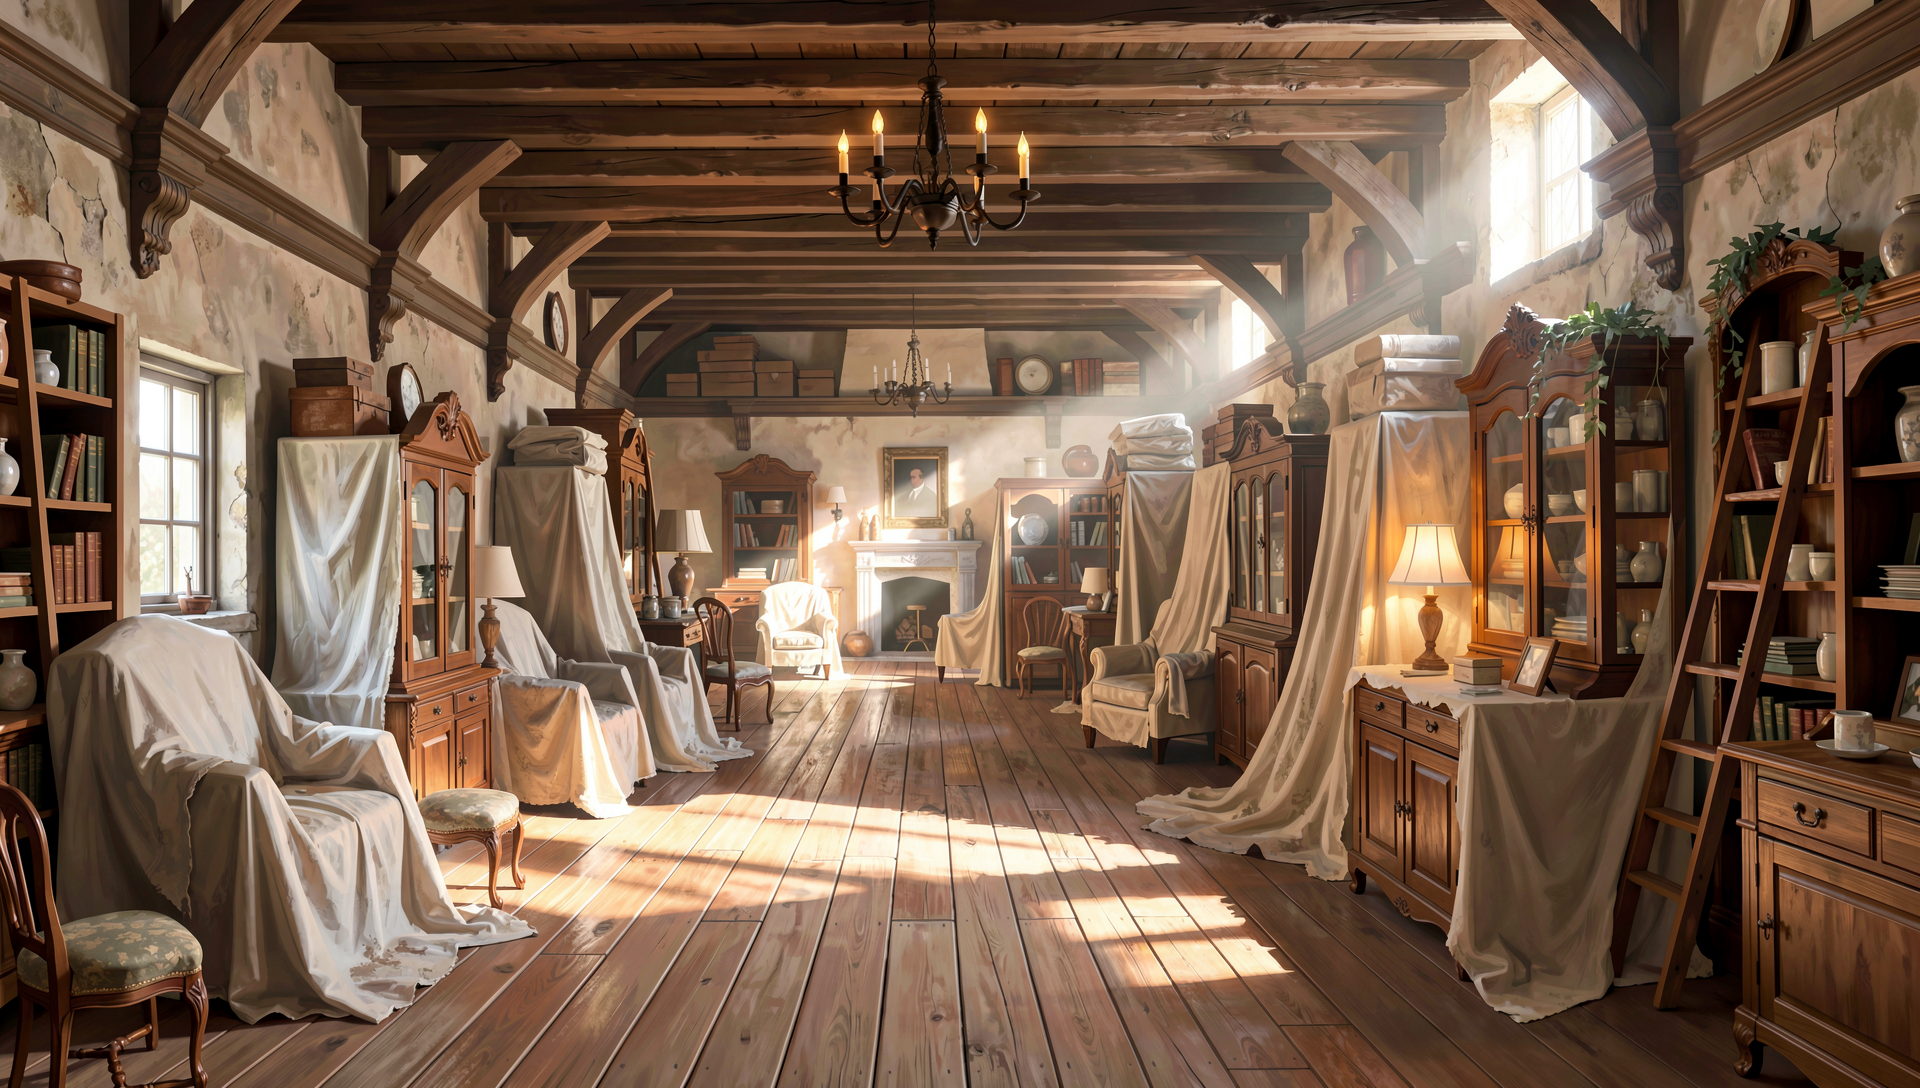
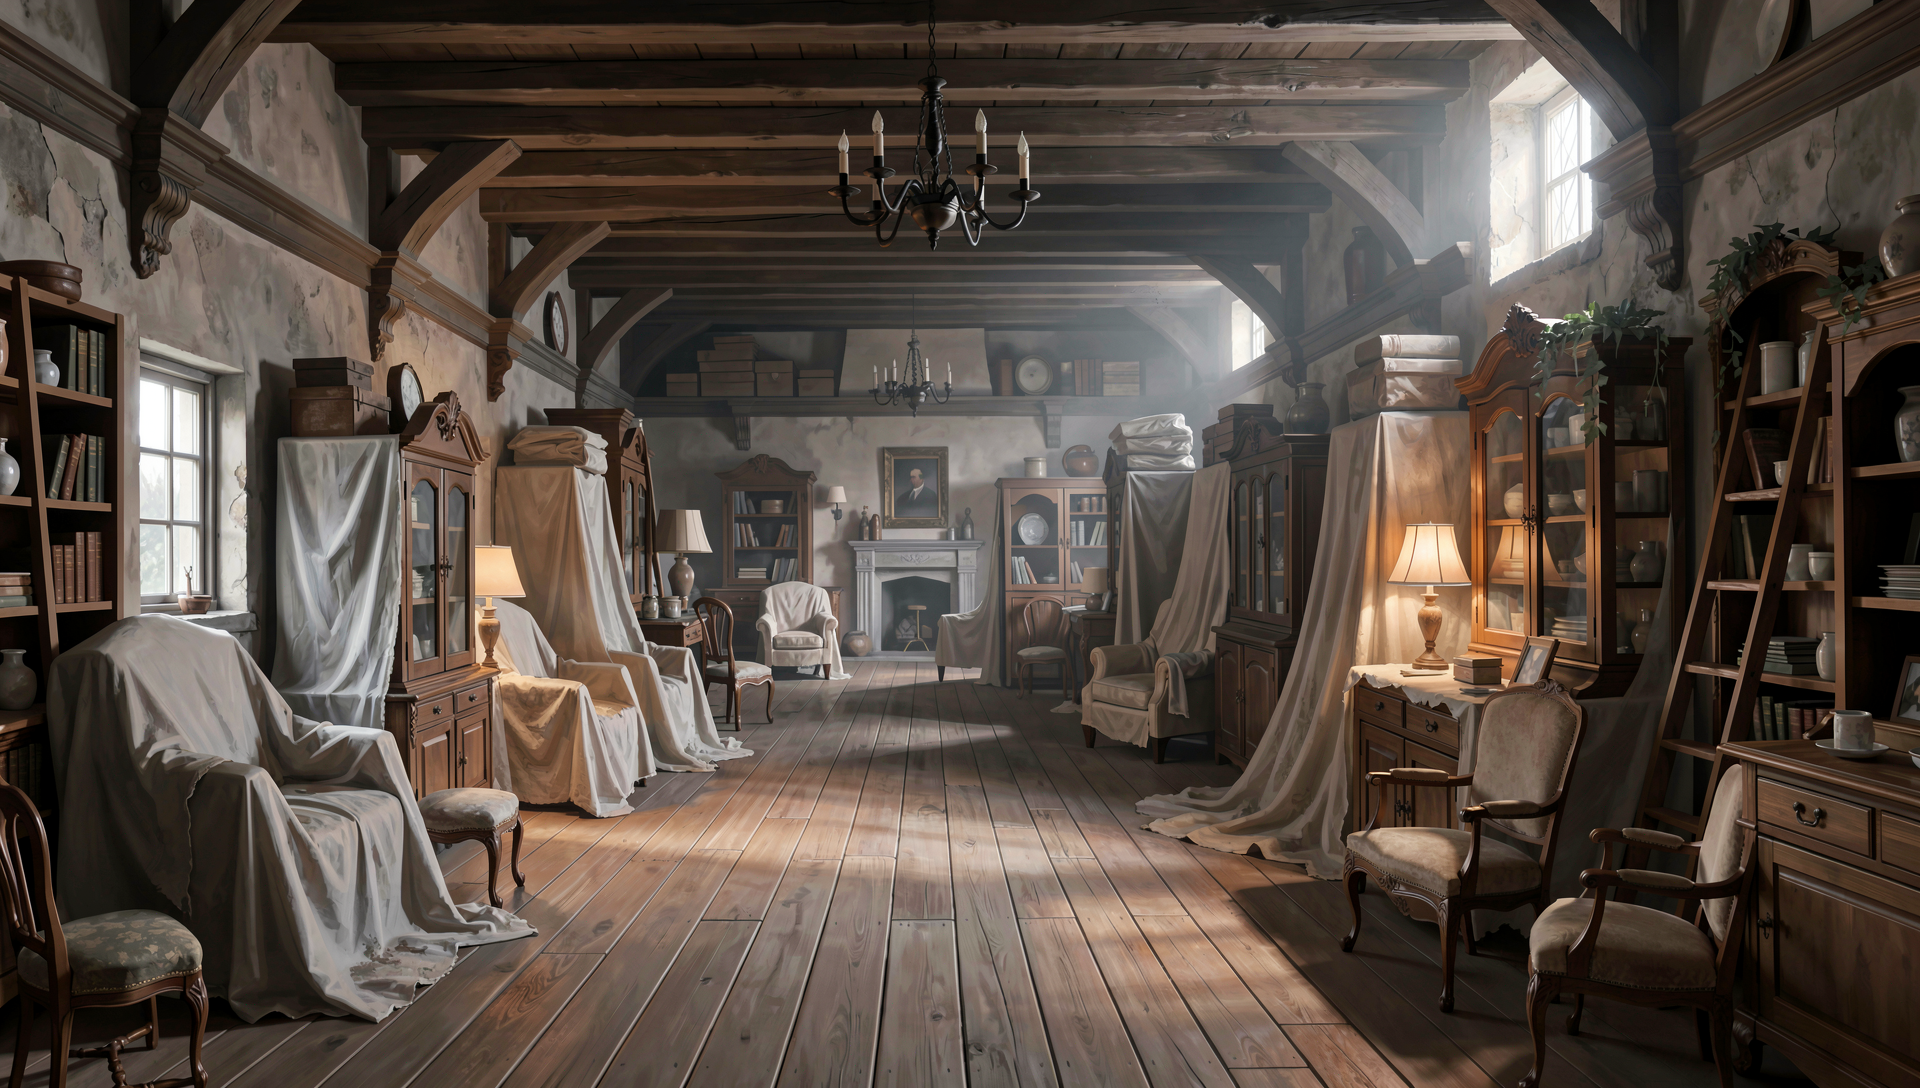
change of some day versions

diff --git a/tools/toggle_location_lighting.py b/tools/toggle_location_lighting.py
@@ -25,8 +25,9 @@ PROMPT_TEMPLATES = {
     ),
     "interior_day": (
         "A high-quality semi-realistic digital painting of a 1920s Scottish manor "
-        "{description} by day. Bright natural daylight streaming in, clear sunny atmosphere. "
-        "Wide shot, empty room, rich textures, detailed."
+        "{description} by day. Soft muted daylight filtering through the windows, "
+        "overcast grey light, subdued and dim, gentle soft shadows, quiet mysterious "
+        "atmosphere, wide shot, empty room, rich textures, detailed."
     ),
     "outdoor_night": (
         "A high-quality semi-realistic digital painting of a {description} at night. "
@@ -51,6 +52,13 @@ NIGHT_NEGATIVE_EXTRA = (
     "daylight, sunlight, sunbeams, god rays, golden hour, sunset, sunrise, "
     "bright sky, blue sky, bright daylight, glowing windows, overexposed, warm sunlight, "
     "moon, stars, starry sky"
+)
+
+# Extra negatives for interior daytime, to keep the manor's mystery: a soft, dim,
+# overcast room instead of a bright cheerful sunny one.
+INTERIOR_DAY_NEGATIVE_EXTRA = (
+    "bright sunlight, harsh sunlight, direct sunbeams, sunny, cheerful, "
+    "blown highlights, overexposed, hdr, washed out"
 )
 
 # _locations.md files some genuinely interior rooms under its "Outdoor locations"
@@ -171,9 +179,13 @@ def process_toggle(image_path):
         else:
             denoising_strength = 0.88
     else:
-        negative_prompt = NEGATIVE_PROMPT
         denoising_strength = 0.75
         distilled_cfg_scale = 3.5
+        if loc_type == "interior":
+            # Keep interior manor rooms moody by day rather than bright and cheerful.
+            negative_prompt = f"{NEGATIVE_PROMPT}, {INTERIOR_DAY_NEGATIVE_EXTRA}"
+        else:
+            negative_prompt = NEGATIVE_PROMPT
 
     payload = {
         "prompt": prompt,